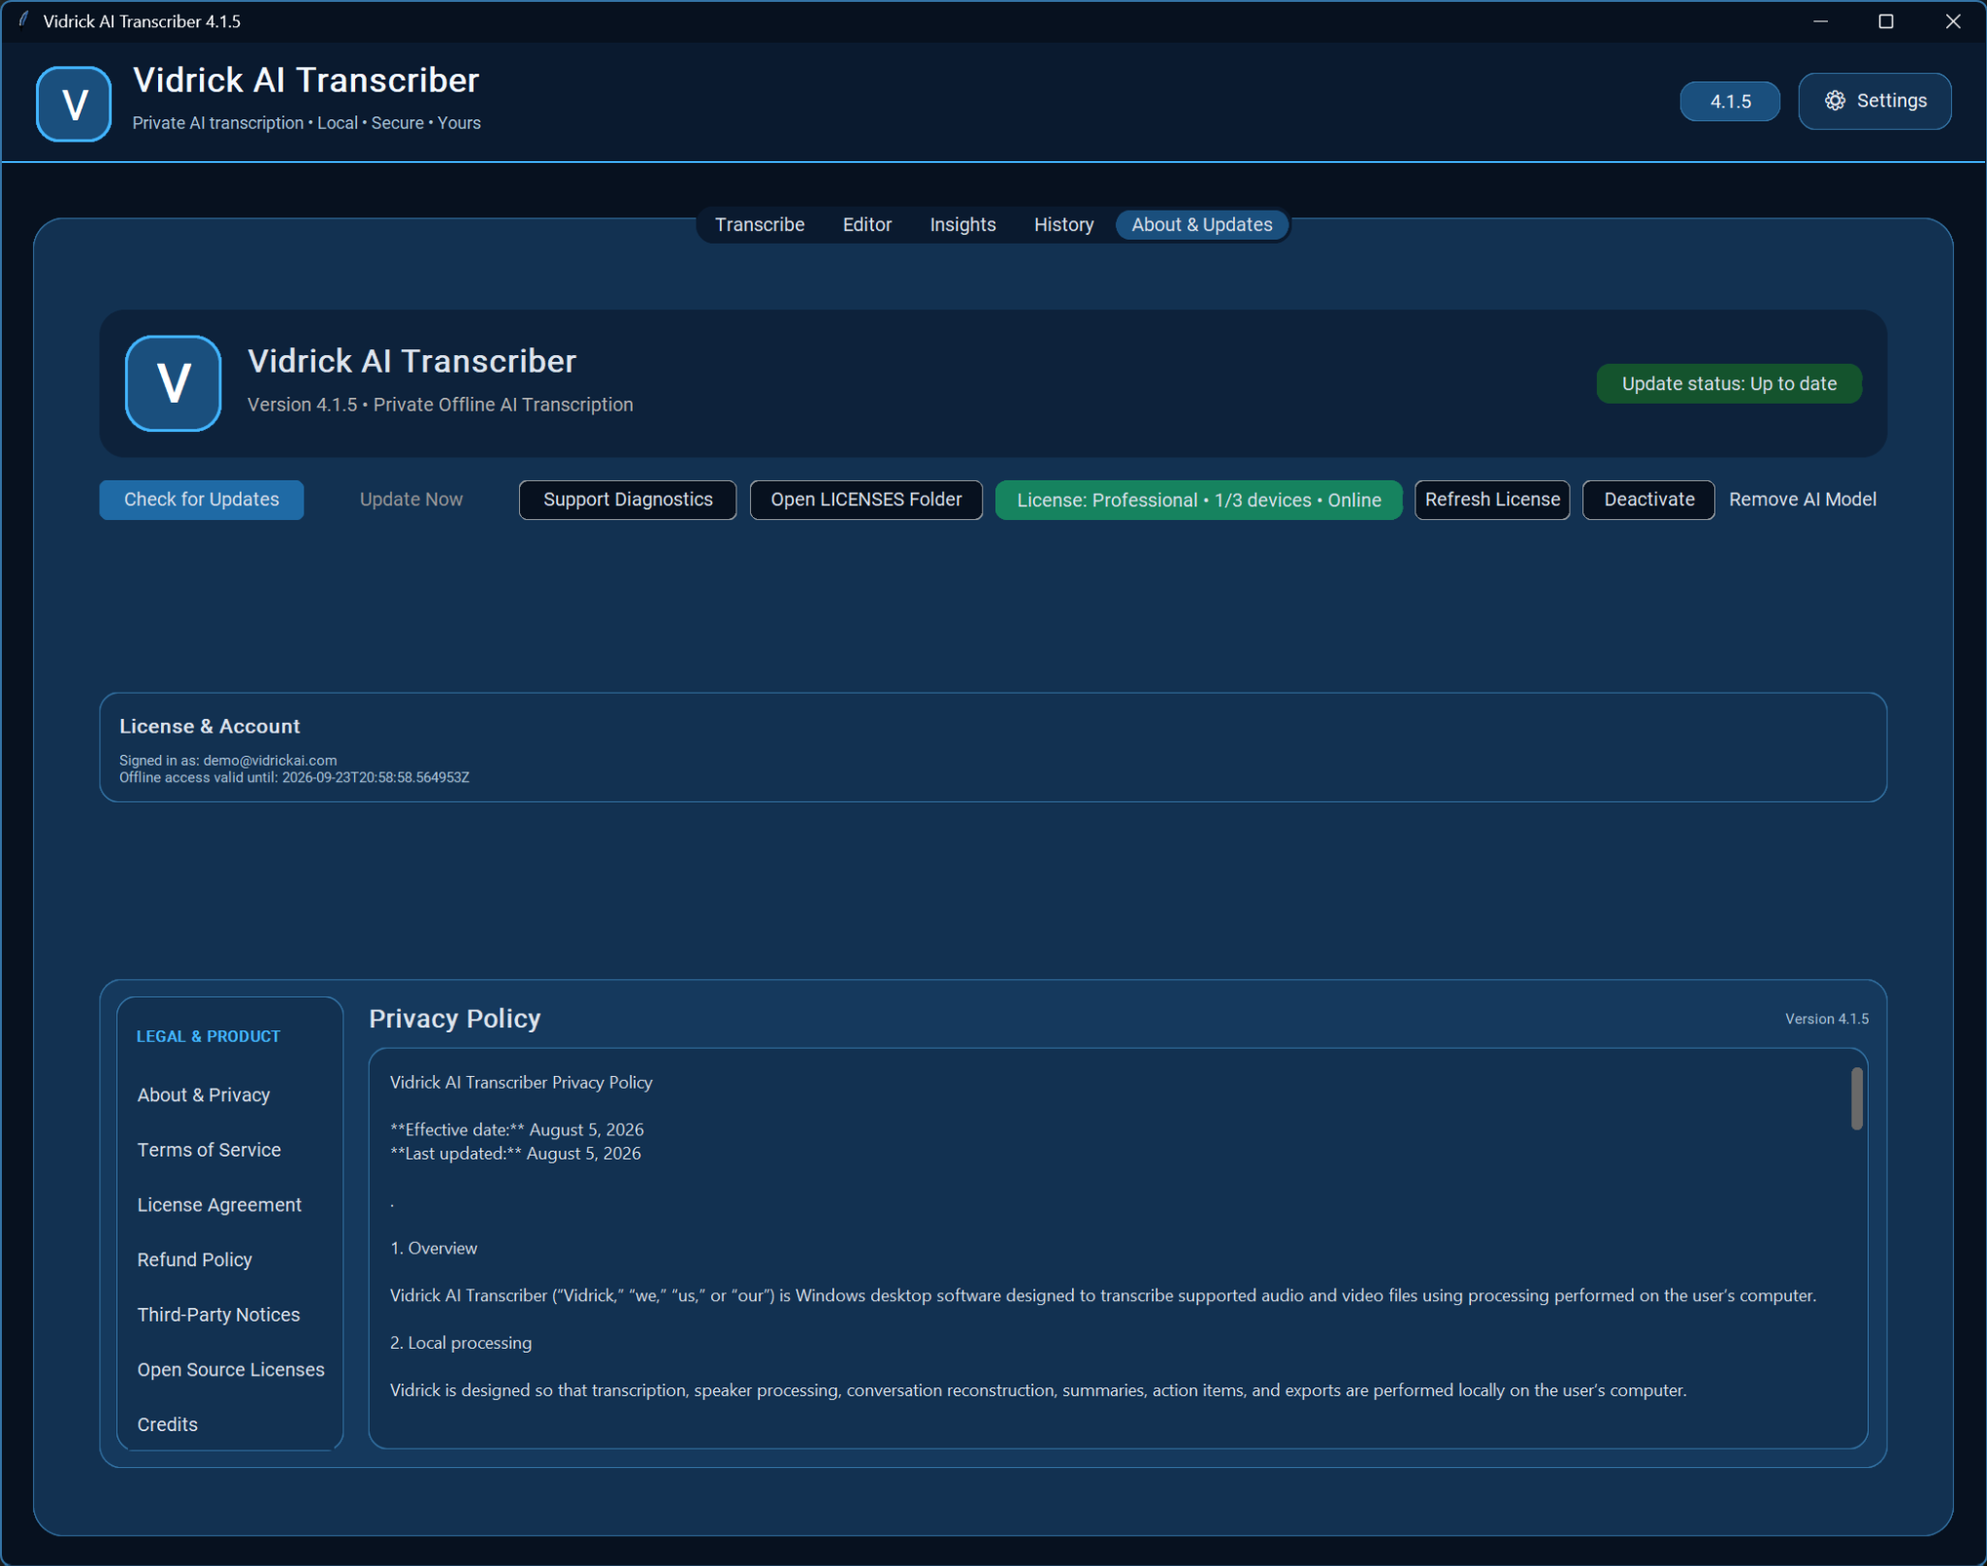
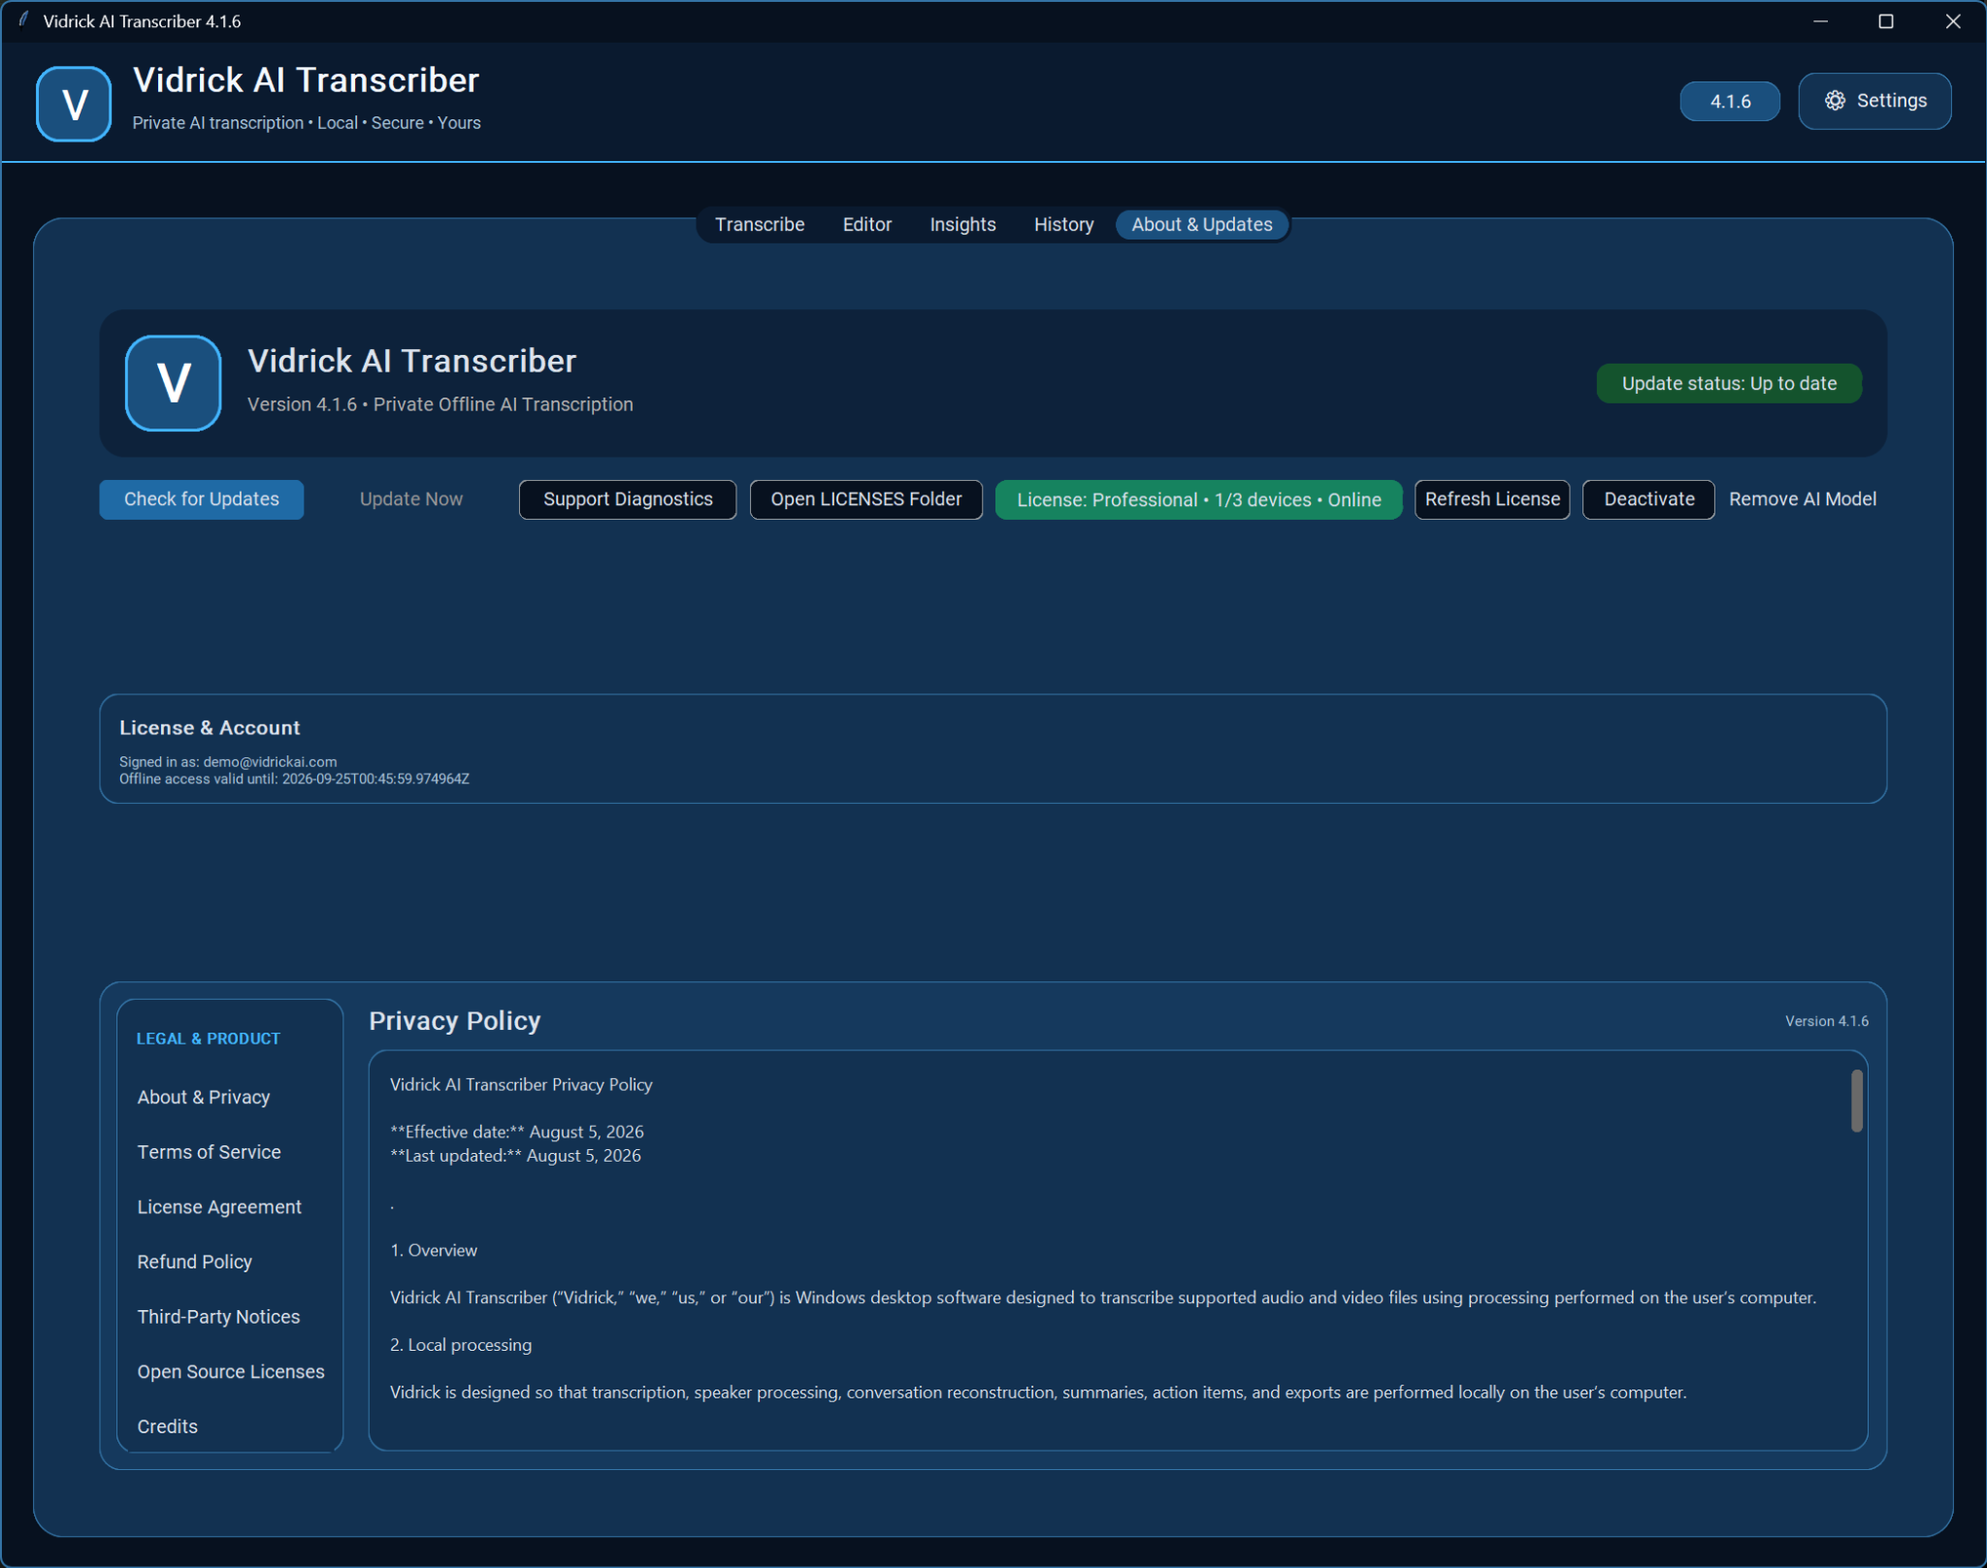
Update website for Vidrick AI Transcriber 4.1.6

diff --git a/styles.css b/styles.css
@@ -1,2 +1,5 @@
 *{box-sizing:border-box}html{scroll-behavior:smooth}body{margin:0;background:radial-gradient(circle at 10% 0,#113b60 0,transparent 28%),radial-gradient(circle at 90% 24%,#0b3657 0,transparent 24%),linear-gradient(180deg,#040a13,#07111d 48%,#040a12);color:#f5fbff;font-family:Inter,Segoe UI,sans-serif;overflow-x:hidden}a{color:inherit;text-decoration:none}.shell{width:min(1180px,calc(100% - 40px));margin:auto}.ambient{position:fixed;width:460px;height:460px;border-radius:50%;filter:blur(110px);opacity:.13;z-index:-1}.ambient-one{background:#279ee5;left:-220px;top:12%}.ambient-two{background:#6ad8ff;right:-250px;top:48%}.nav{position:sticky;top:16px;z-index:50;margin-top:16px;min-height:72px;padding:12px 14px 12px 18px;display:flex;align-items:center;justify-content:space-between;border:1px solid rgba(83,157,204,.38);border-radius:22px;background:rgba(5,14,25,.76);backdrop-filter:blur(22px) saturate(130%);box-shadow:0 18px 50px rgba(0,0,0,.34)}.brand{display:flex;align-items:center;gap:11px}.brand-mark{display:grid;place-items:center;width:42px;height:42px;border:1px solid #4c9bca;border-radius:13px;background:linear-gradient(145deg,#235d8655,#0e314f88);color:#e8f8ff;font-size:22px;font-weight:800}.brand-copy strong,.brand-copy small{display:block}.brand-copy strong{font-size:15px}.brand-copy small{margin-top:2px;color:#8da9be;font-size:11px}.nav-links{display:flex;gap:22px;color:#b7c9d7;font-size:13px}.nav-links a:hover{color:white}.button{display:inline-flex;align-items:center;justify-content:center;min-height:48px;padding:0 20px;border:1px solid #7cd7ff;border-radius:14px;background:linear-gradient(#65ccff,#2898db);color:#03121d;font-weight:800;box-shadow:inset 0 1px rgba(255,255,255,.55),0 14px 34px rgba(43,143,207,.24);transition:.2s}.button:hover{transform:translateY(-2px)}.button-small{min-height:42px;padding:0 15px}.button-secondary{background:rgba(15,42,69,.72);color:#eaf8ff;border-color:#2d6486;box-shadow:none}.hero{display:grid;grid-template-columns:.9fr 1.1fr;gap:58px;align-items:center;min-height:780px;padding:105px 0 88px}.eyebrow{color:#81d5ff;font-size:12px;font-weight:800;letter-spacing:.08em;text-transform:uppercase}.hero h1,.section-copy h2,.section-heading h2,.final-cta h2{margin:20px 0 0;font-size:clamp(42px,5vw,70px);line-height:.98;letter-spacing:-.055em}.hero h1 span{display:block;margin-top:8px;background:linear-gradient(90deg,#effbff,#74d2ff,#3a9ce3);-webkit-background-clip:text;color:transparent}.hero-copy>p,.section-copy>p,.section-heading>p,.final-cta p{color:#9db4c6;font-size:17px;line-height:1.72}.hero-actions{display:flex;gap:12px;margin-top:32px}.trust-row{display:flex;flex-wrap:wrap;gap:18px;margin-top:24px;color:#98afc1;font-size:13px}.screenshot-frame{position:relative;padding:8px;border:1px solid rgba(93,176,225,.4);border-radius:24px;background:linear-gradient(145deg,rgba(27,63,96,.55),rgba(7,22,38,.55));box-shadow:0 35px 100px rgba(0,0,0,.48),inset 0 1px rgba(255,255,255,.08);backdrop-filter:blur(18px)}.screenshot-frame:before{content:"";position:absolute;inset:10% 12%;background:#38a9ea55;filter:blur(70px);z-index:-1}.screenshot-frame img{display:block;width:100%;border-radius:18px}.hero-shot{transform:perspective(1200px) rotateY(-2.4deg)}.proof-strip{display:grid;grid-template-columns:repeat(4,1fr);gap:1px;margin-top:10px;border:1px solid #183f5a;border-radius:18px;overflow:hidden;background:#173c55}.proof-strip span{padding:18px;background:#071b2c;color:#7fa9c3;text-align:center;font-size:12px;font-weight:700}.feature-section{display:grid;grid-template-columns:.8fr 1.2fr;gap:58px;align-items:center;padding:120px 0}.feature-section.reverse{grid-template-columns:1.2fr .8fr}.feature-section.reverse .section-copy{order:2}.section-copy h2,.section-heading h2,.final-cta h2{font-size:clamp(34px,4vw,54px);line-height:1.05}.feature-list{display:grid;gap:11px;margin:26px 0 0;padding:0;list-style:none;color:#a7bdcd}.feature-list li:before{content:"✓";margin-right:9px;color:#68d1ff}.showcase{padding:110px 0}.section-heading{max-width:760px;margin-bottom:46px}.wide-shot{padding:10px}.privacy-grid{display:grid;grid-template-columns:repeat(4,1fr);gap:16px;padding:40px 0 110px}.glass{border:1px solid rgba(77,157,205,.32);border-radius:22px;background:linear-gradient(145deg,rgba(21,53,83,.72),rgba(7,23,40,.62));box-shadow:inset 0 1px rgba(255,255,255,.07),0 22px 60px rgba(0,0,0,.24);backdrop-filter:blur(18px)}.privacy-grid article{padding:24px}.privacy-grid .icon{font-size:24px}.privacy-grid h3{margin:18px 0 0}.privacy-grid p{color:#90a8bb;line-height:1.6}.before-after{padding:110px 0}.compare-cards{display:grid;grid-template-columns:1fr auto 1fr;gap:18px;align-items:center}.compare-cards article{padding:25px}.compare-label{color:#7fd5ff;font-size:11px;font-weight:800;letter-spacing:.08em;text-transform:uppercase}.compare-cards pre{white-space:pre-wrap;margin:22px 0 0;color:#b4c8d6;font-family:ui-monospace,SFMono-Regular,Consolas,monospace;line-height:1.7}.compare-arrow{color:#66cbff;font-size:30px}.highlight{border-color:#64c9fb}.pricing-section{padding:110px 0}.pricing-grid{display:grid;grid-template-columns:repeat(3,1fr);gap:18px}.price-card{position:relative;display:flex;flex-direction:column;padding:30px;transition:.22s}.price-card:hover{transform:translateY(-6px);border-color:#63cbff;box-shadow:0 28px 80px rgba(32,131,195,.22)}.price-top{display:flex;justify-content:space-between;align-items:center;gap:10px}.price-top>span{color:#76d1ff;font-size:13px;font-weight:800;letter-spacing:.08em}.price-top small{padding:6px 9px;border:1px solid #315f7c;border-radius:999px;background:#102d49;color:#8fcfee}.price{display:flex;align-items:flex-end;gap:8px;margin-top:24px}.price strong{font-size:44px;letter-spacing:-.05em}.price span{margin-bottom:7px;color:#90a7b7}.price-card>p{min-height:72px;color:#91a9bb;line-height:1.6}.price-card ul{flex:1;display:grid;gap:12px;margin:24px 0;padding:0;list-style:none;color:#adc2d0}.price-card li:before{content:"✓";margin-right:8px;color:#68d1ff}.full{width:100%}.featured{border-color:#67cfff;transform:translateY(-12px)}.popular{position:absolute;top:-13px;right:18px;padding:7px 10px;border:1px solid #5cbce9;border-radius:999px;background:#123d5d;color:#8bdcff;font-size:10px;font-weight:800}.final-cta{display:flex;align-items:center;justify-content:space-between;gap:36px;margin-bottom:100px;padding:42px}.final-cta>div{max-width:760px}.footer{display:grid;grid-template-columns:1fr auto 1fr;align-items:center;gap:25px;padding:32px 0 46px;border-top:1px solid #17384f}.footer p{color:#70899c;font-size:12px}.footer-links{justify-self:end;display:flex;gap:18px;color:#7892a6;font-size:12px}.reveal{opacity:0;transform:translateY(24px);transition:opacity .7s ease,transform .7s ease}.reveal.visible{opacity:1;transform:none}@media(max-width:980px){.nav-links{display:none}.hero,.feature-section,.feature-section.reverse{grid-template-columns:1fr}.feature-section.reverse .section-copy{order:0}.hero-shot{transform:none}.proof-strip{grid-template-columns:repeat(2,1fr)}.privacy-grid{grid-template-columns:repeat(2,1fr)}.pricing-grid{grid-template-columns:repeat(2,1fr)}.featured{transform:none}.final-cta{align-items:flex-start;flex-direction:column}}@media(max-width:680px){.shell{width:calc(100% - 24px)}.nav{top:8px}.hero{min-height:0;padding:76px 0 60px}.hero-actions,.trust-row{flex-direction:column}.proof-strip{grid-template-columns:1fr}.feature-section,.showcase,.before-after,.pricing-section{padding:84px 0}.privacy-grid{grid-template-columns:1fr}.compare-cards{grid-template-columns:1fr}.compare-arrow{transform:rotate(90deg);text-align:center}.pricing-grid{grid-template-columns:1fr}.featured{transform:none}.final-cta{padding:26px}.footer{grid-template-columns:1fr}.footer-links{justify-self:start}}
 .nav-actions{display:flex;align-items:center;gap:10px}@media(max-width:680px){.nav-actions{gap:7px}.nav-actions .button-secondary{display:none}}
+.whats-new{padding:110px 0 30px}.update-grid{display:grid;grid-template-columns:repeat(3,1fr);gap:16px}.update-grid article{padding:26px}.update-grid h3{margin:16px 0 8px;font-size:20px}.update-grid p{margin:0;color:#90a8bb;line-height:1.6}.update-badge{display:inline-flex;padding:6px 9px;border:1px solid #315f7c;border-radius:999px;background:#102d49;color:#81d5ff;font-size:10px;font-weight:800;letter-spacing:.08em}.local-note{margin:22px 0 0;color:#9db4c6;font-size:14px}.local-note strong{color:#eaf8ff}@media(max-width:980px){.update-grid{grid-template-columns:repeat(2,1fr)}}@media(max-width:680px){.whats-new{padding:84px 0 10px}.update-grid{grid-template-columns:1fr}}
+/* Keep the first-run welcome screenshot compact while preserving responsiveness. */
+.welcome-shot{max-width:820px;margin-left:auto;margin-right:auto}

diff --git a/index.html b/index.html
@@ -90,7 +90,7 @@
       </div>
 
       <div class="hero-shot screenshot-frame reveal">
-        <img src="assets/transcribe.png" alt="Vidrick Private AI Transcriber with an audio file ready to transcribe">
+        <img src="assets/transcribe.png" alt="Vidrick AI Transcriber 4.1.6 transcription screen with local CPU processing and automatic speaker identification">
       </div>
     </section>
 
@@ -99,6 +99,17 @@
       <span>Automatic speaker diarization</span>
       <span>Clean, readable conversations</span>
       <span>No per-minute transcription limits</span>
+    </section>
+
+    <section id="welcome" class="showcase shell">
+      <div class="section-heading reveal">
+        <div class="eyebrow">Welcome to Vidrick</div>
+        <h2>A clear introduction to the private transcription workflow.</h2>
+        <p>When Vidrick opens for the first time, the welcome screen highlights the core experience: private local processing, speaker identification, conversation reconstruction, and professional export options.</p>
+      </div>
+      <div class="wide-shot screenshot-frame reveal welcome-shot">
+        <img src="assets/welcome-screen.png" alt="Vidrick AI Transcriber 4.1.6 welcome screen showing private local transcription, speaker identification, conversation reconstruction, and professional exports">
+      </div>
     </section>
 
     <section id="transcribe" class="feature-section shell">
@@ -116,7 +127,7 @@
         </ul>
       </div>
       <div class="screenshot-frame reveal">
-        <img src="assets/transcribe.png" alt="Vidrick transcribing a file with live progress">
+        <img src="assets/transcribe.png" alt="Vidrick AI Transcriber 4.1.6 transcription settings and file selection screen">
       </div>
     </section>
 
@@ -144,7 +155,7 @@
         <p>Review completed transcripts, make corrections, and save the finished version without sending your conversation to another service.</p>
       </div>
       <div class="wide-shot screenshot-frame reveal">
-        <img src="assets/editor.png" alt="Vidrick transcript editor showing a completed transcript">
+        <img src="assets/editor.png" alt="Vidrick AI Transcriber 4.1.6 transcript editor">
       </div>
     </section>
 
@@ -161,7 +172,7 @@
         </ul>
       </div>
       <div class="screenshot-frame reveal">
-        <img src="assets/insights.png" alt="Vidrick AI Insights screen">
+        <img src="assets/insights.png" alt="Vidrick AI Transcriber 4.1.6 AI Insights screen">
       </div>
     </section>
 
@@ -178,7 +189,7 @@
         </ul>
       </div>
       <div class="screenshot-frame reveal">
-        <img src="assets/history.png" alt="Vidrick transcription history">
+        <img src="assets/history.png" alt="Vidrick AI Transcriber 4.1.6 transcription history">
       </div>
     </section>
 
@@ -189,7 +200,7 @@
         <p>See your installed version, check for updates, review privacy information, and learn what powers Vidrick — all from inside the app.</p>
       </div>
       <div class="wide-shot screenshot-frame reveal">
-        <img src="assets/about-updates.png" alt="Vidrick About and Updates screen">
+        <img src="assets/about-updates.png" alt="Vidrick AI Transcriber 4.1.6 About and Updates screen">
       </div>
     </section>
 
@@ -248,11 +259,28 @@ Okay.</pre>
     </section>
 
     
+    <section class="whats-new shell">
+      <div class="section-heading reveal">
+        <div class="eyebrow">What’s new in 4.1.6</div>
+        <h2>Faster. Smarter speaker identification. More reliable.</h2>
+        <p>Version 4.1.6 focuses on real-world performance and reliability, with major improvements to CPU processing, Automatic speaker identification, model downloads, and transcript exports.</p>
+      </div>
+      <div class="update-grid">
+        <article class="glass reveal"><span class="update-badge">NEW · 4.1.6</span><h3>Faster CPU processing</h3><p>Hardware-aware CPU allocation makes better use of higher-core-count processors for transcription and speaker processing.</p></article>
+        <article class="glass reveal"><span class="update-badge">IMPROVED</span><h3>Smarter Automatic speakers</h3><p>Improved speaker-count inference and identity stability greatly reduce unnecessary speaker labels in conversations.</p></article>
+        <article class="glass reveal"><span class="update-badge">IMPROVED</span><h3>Better multi-speaker stability</h3><p>Recurring voices stay more consistent while genuinely different speakers can still be identified in complex recordings.</p></article>
+        <article class="glass reveal"><span class="update-badge">FASTER</span><h3>Speaker processing</h3><p>Diarization and speaker analysis can make better use of capable CPUs, improving long-form processing performance.</p></article>
+        <article class="glass reveal"><span class="update-badge">RELIABILITY</span><h3>More resilient model downloads</h3><p>Temporary DNS, SSL, connection, and timeout failures now receive automatic retries with controlled backoff.</p></article>
+        <article class="glass reveal"><span class="update-badge">RELIABILITY</span><h3>Improved DOCX &amp; exports</h3><p>Stronger Windows path handling and safer document creation improve reliability when saving completed work.</p></article>
+      </div>
+      <p class="local-note reveal"><strong>Still private by design.</strong> Transcription and speaker processing continue to run locally on your computer.</p>
+    </section>
+
     <section class="feature-section shell">
       <div class="section-copy reveal">
         <div class="eyebrow">Multilingual transcription</div>
         <h2>57 selectable languages plus Auto-detect.</h2>
-        <p>Vidrick AI Transcriber 4.1.5 expands the language selector to 57 named languages plus Auto-detect. Choose the recording language directly, or let Vidrick detect it automatically.</p>
+        <p>Vidrick AI Transcriber 4.1.6 supports 57 named languages plus Auto-detect. Choose the recording language directly, or let Vidrick detect it automatically.</p>
         <ul class="feature-list">
           <li>Includes English, Spanish, French, German, Portuguese, Arabic, Chinese, Hindi, Japanese, Korean, Russian, Ukrainian, Vietnamese and more</li>
           <li>Translate to English remains available</li>
@@ -261,7 +289,7 @@ Okay.</pre>
         <p><a href="multilingual-transcription.html">See multilingual transcription details →</a></p>
       </div>
       <div class="screenshot-frame reveal">
-        <img src="assets/transcribe.png" alt="Vidrick AI Transcriber 4.1.5 language and transcription settings">
+        <img src="assets/transcribe.png" alt="Vidrick AI Transcriber 4.1.6 language and transcription settings">
       </div>
     </section>
 
@@ -300,7 +328,7 @@ Okay.</pre>
             <li>GPU/CUDA acceleration on compatible NVIDIA hardware</li>
             <li>Private processing with no cloud uploads</li>
             <li>Up to 3 activated computers</li>
-            <li>7-day free trial · then $13.99/month unless canceled</li>
+            <li>7 day free trial</li>
           </ul>
           <a class="button full" href="https://portal.vidrickai.com/register?trial=professional">Start 7-day free trial</a>
         </article>
